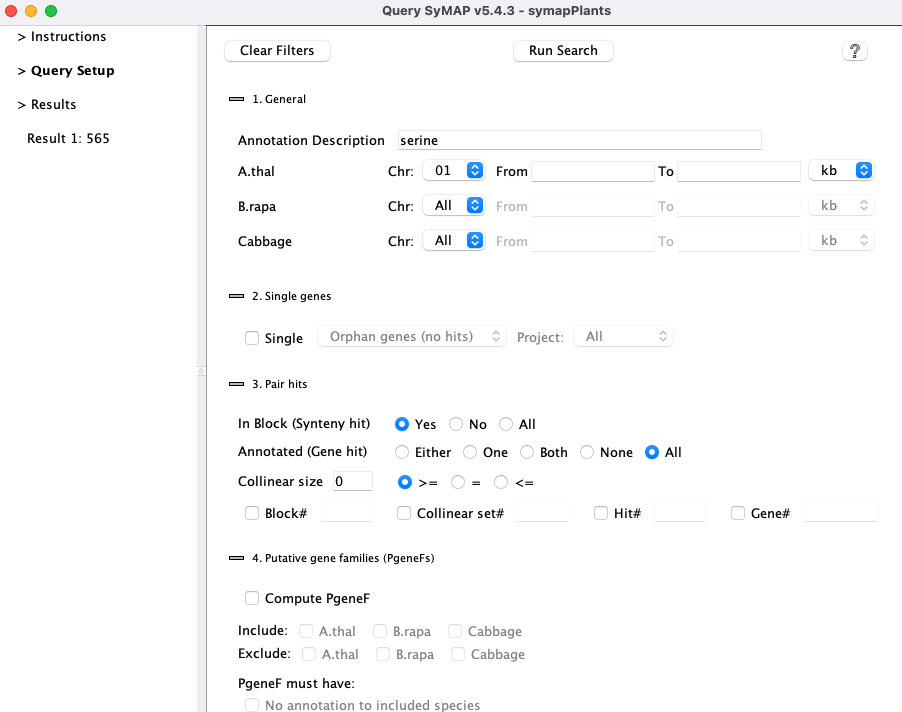
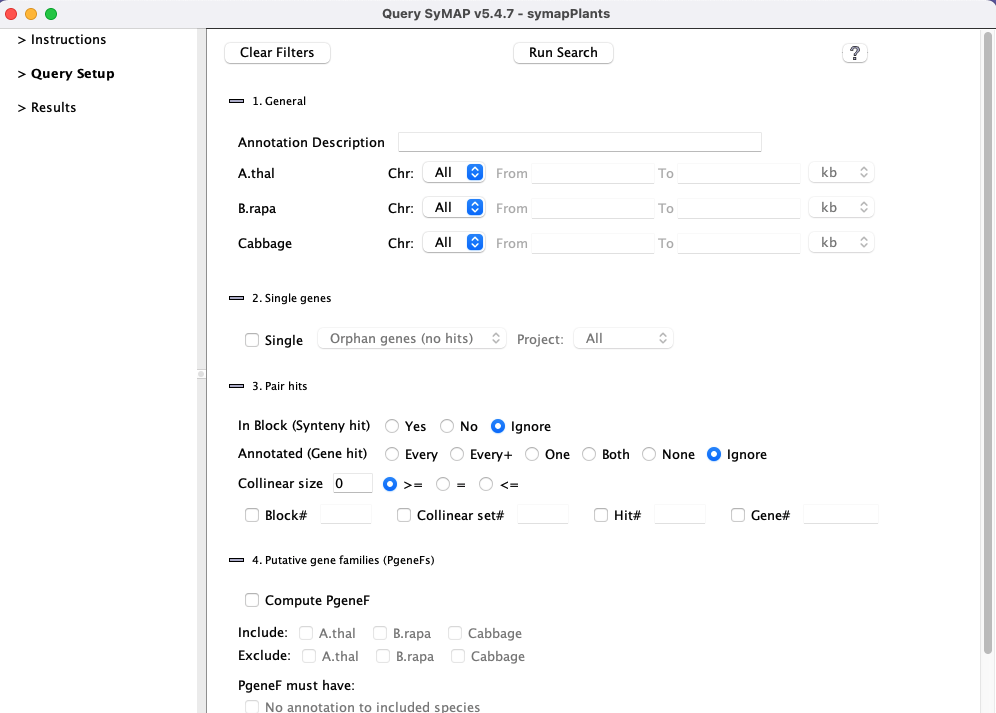
v4.5.7

diff --git a/docs/SystemGuide.html b/docs/SystemGuide.html
@@ -113,8 +113,10 @@ The following discusses building a SyMAP v5 database.
 <b>Supporting documentation</b>
 <ul>
 <li><a href="./SystemHelp.html" class="ext" target="_blank">Quick Guide and Parameters</a>
-<li><a href="MUMmer.html"  class="ext" target="_blank">MUMmer</a>
+<li><a href="MUMmer.html"  class="ext" target="_blank">Using MUMmer with SyMAP</a>
+<br>&nbsp;
 <li><a href="convert/index.html" class="ext" target="_blank">Convert NCBI and Ensembl</a>
+<li><a href="Demo.html" class="ext" target="_blank">Demo Results</a>
 <li><a href=TroubleShoot.html class="ext" target="_blank">Trouble Shooting</a>
 </ul>
 <p>For <b>Transcriptome Analysis and Comparative Transcriptomes</b>, see <a href="https://csoderlund.github.io/TCW/" class="ext" target="_blank">TCW</a>.
@@ -341,7 +343,7 @@ For MacOS, you may also need <a href="TroubleShoot.html#macos" class="ext" targe
 <table>
 <tr><td style="vertical-align: text-top;">
 The <ttb>Project Manager</ttb> window opens showing the three demo projects provided with the SyMAP tarball.
-Check <ttl>Demo-Seq</ttl> and <ttl>Demo-Seq2</ttl>.
+Check <tt>Demo-Seq</tt> and <tt>Demo-Seq2</tt>.
 <td><a href="img/demoLoad.png"><img src="img/demoLoad.png" alt="demoLoad" style="border: 1px solid black; width: 400px"></a>
 
 <tr><td style="colspan: 2; height: 40px;">&nbsp;
@@ -350,11 +352,11 @@ Check <ttl>Demo-Seq</ttl> and <ttl>Demo-Seq2</ttl>.
 
 A link <ttb>Load All Projects</ttb> will be displayed at the top of the right panel; select it to
 load the projects, which will take several minutes.
-<p>If loading the "Demo-Seq" takes
+<p>If loading the <tt>Demo-Seq</tt> takes
 <i>more than a few minutes</i>, you may need to adjust the MySQL parameters, see
 <a href="TroubleShoot.html#msqslow" class="ext" target="_blank">TroubleShoot MySQL</a>.
 <p>When done, the Manager will look like the image shown on the right.
-In the <ttb>Available Syntenies</ttb> table, the cell for  "Demo_Seq2" and "Demo_Seq" will
+In the <ttb>Available Syntenies</ttb> table, the cell for  <tt>Demo_Seq2</tt> and <tt>Demo_Seq</tt> will
 automatically be selected.
 
 <p>Click the <ttb>Selected Pair</ttb> button to start the <ttl>Alignment&amp;Synteny</ttl>.
@@ -400,12 +402,12 @@ gives a summary similar to <a href="img/demoSumAlgo2.png" class="ext" target="_b
 
 <table>
 	<tr><td style="vertical-align: text-top;">
-Load the Demo-Draft project, following
+Load the <tt>Demo-Draft</tt> project, following
 the same steps used to load the previous two projects.
 
-<p>Under the Demo-Draft listing, you will see
+<p>Under the <tt>Demo-Draft</tt> listing, you will see
 the parameter "Order against: demo_seq2". With this setting,
-the Demo-Draft contigs will be ordered using synteny to Demo-Seq2.
+the <tt>Demo-Draft</tt> contigs will be ordered using synteny to <tt>Demo-Seq2</tt>.
 		<td>
 <a href="img/demoDraft1.png"><img src="img/demoDraft1.png" alt="demoDraft1" style="border: 1px solid black; width: 400px"></a>
 	<tr><td style="colspan: 2; height: 40px;">&nbsp;
@@ -431,7 +433,7 @@ whether they should be flipped to a file called <tt>/data/seq/Demo_seq2/ordering
 It creates sequence files from the ordered contigs that are flipped when appropriate,
 which are put into a new project
 with the suffix "<tt>_ordered</tt>", as shown in the image below. The chromosome names correspond
-to the order-against project (e.g. Demo_seq2), and the third chromosome is 'chr0'
+to the order-against project (e.g. <tt>Demo_seq2</tt>), and the third chromosome is 'chr0'
 which contains all draft sequences that were not placed.
 <p>
 
@@ -440,7 +442,7 @@ which contains all draft sequences that were not placed.
 As shown in the image on the left, a new project has been added. Click <tt>Demo_Draft-ordered</tt> and
 load it.
 Running the <ttl>Alignment&amp;Synteny</ttl>
-between the <tt>_ordered</tt> project and Demo_seq2 will provide a more coherent display
+between the <tt>_ordered</tt> project and <tt>Demo_seq2</tt> will provide a more coherent display
 (see the second dot plot for <a href="Demo.html#draft" class="ext" target="_blank">Demo-draft</a>).
 Using the project <a href="SystemHelp.html#projParams" class="ext" target="_blank">Parameters</a> window,
 the <tt>Demo_Draft-ordered</tt> name can be shortened.
@@ -451,7 +453,7 @@ the <tt>Demo_Draft-ordered</tt> name can be shortened.
 <a id="demoself"></a>
 <h3>Self alignment</h3>
 
-The section on <a href="#self">Self alignments</a> discusses the select alignment of the Demo_Seq project.
+The section on <a href="#self">Self alignments</a> discusses the select alignment of the <tt>Demo_Seq</tt> project.
 
 <br>
 <!---------------------------------------------------------->
@@ -722,13 +724,12 @@ project and the new <tt>_ordered</tt> project.
 The original draft directory will have a new file called <tt>ordered.csv</tt> that will contain
 the merged contigs and what chromosome number they are mapped to.
 
-<p><u>If you are not ordering the draft sequence</u>,
-and if the draft sequence is in too many sequence pieces,
-then (1) it takes a long time for the MUMmer comparisons, (2)
+<p><i>If the draft sequence is in too many sequence pieces</i>,
+(1) it takes a long time for the MUMmer comparisons, (2)
 the display is very cluttered, and
 (3) the blocks display does not work right. Limit the number of sequence pieces
 by setting <tt>Minimum length</tt> in the project's <a href="#params2">Parameter</a> window to only load the largest 150 sequences;
-there is a script called <tt>scripts/lenFasta.pl</tt> which
+there is a script called <ttx>scripts/lenFasta.pl</ttx> which
 will print out all the lengths; set the <tt>Minimum length</tt> to the 150th length. However, even 150 are a lot of blocks to view
 so you might want to start with the largest 50, merge them, then repeat.
 
@@ -946,6 +947,7 @@ see if there are any <tt>/scripts</tt> or <tt>/ext</tt> changes that need to als
 <p>The following table shows what versions require action by the user.
 <table class=ty>
 <tr><td><b>Release</b><td><b>Changed files</b><sup>1</sup><td><b>Action by User</b>
+<tr><td>v5.4.6 & 5.4.7 <td>Only the <tt>symap.jar</tt><td><ttl>Alignment&Synteny</ttl><sup>2</sup> if using <ttx>Cluster Hit Algo 2</ttx>
 <tr><td>v5.4.1 <td>Only the <tt>symap.jar</tt><td>Execute <tt>./symap -y</tt>
 <tr><td>v5.4.0 <td>Only the <tt>symap.jar</tt><td><ttl>Alignment&Synteny</ttl><sup>2</sup>
 <tr><td>v5.2.0 <td><tt>symap</tt>, <tt>viewSymap</tt>, <tt>scripts/ConvertNCBI.*</tt><td><ttl>Alignment&Synteny</ttl><sup>2</sup>

diff --git a/docs/Demo.html b/docs/Demo.html
@@ -8,6 +8,7 @@
 	a:link {color:#6666CC;text-decoration: none; background-color: transparent;}
 	a:visited {color:#6666CC;text-decoration: none; background-color: transparent;}
 	a:active {color:#6666CC;text-decoration: none; background-color: transparent;}
+	ttx  {font-family: 'Helvetica', monospace; font-size: 14px; font-weight: 500; color: DarkSlateGrey;}
 	ttl  {font-family: 'Lucida Console', monospace; font-size: 14px; font-weight: 700; color: DarkSlateGrey;}
 	ttb  {font-family: 'Lucida Console', monospace; font-size: 14px; font-weight: 700; color: Black;}
     a.white {font-family:verdana; font-size:12px; color:white; text-decoration: underline;}
@@ -72,7 +73,7 @@ The demo was created from real data &gt;15 years ago, and is VERY obsolete - it 
 <tr><td>&nbsp;<td><small>Click an image to view a closeup.</small>
 <tr>
 	<td style="vertical-align: text-top;">
-	This document shows the different views for the Demo-Seq to Demo-Seq2 alignment.
+	This document shows the different views for the <tt>Demo-Seq</tt> to <tt>Demo-Seq2</tt> alignment.
 When synteny has been computed for the demo, the table will have a checkbox, signifying that
 the synteny is available for viewing. Click the cell
 again which will enable the viewing buttons, e.g <ttb>Dot Plot</ttb>.
@@ -102,7 +103,7 @@ The top left chromosome icon
 will have its number highlighed in a red box; this indicates it is the default reference chromosome.
 
 <p>
-Click on the icon body for Demo-Seq2 1 and 3 (i.e. chr1 and chr3) to see the Circos-style<sup>3</sup> view
+Click on the icon body for <tt>Demo-Seq2</tt> 1 and 3 (i.e. chr1 and chr3) to see the Circos-style<sup>3</sup> view
 shown on the right.
 The ribbons represent synteny blocks.
 	</td>
@@ -131,7 +132,7 @@ The exons for individual genes can be seen
 in the center of each sequence track. The length of the hit is shown on the inner boundary
 of the each chromosome segment.
 <p>
-There is a sequence filter for <ttl>Show Annotations</ttl>. This will show the annotation as shown
+There is a sequence filter for <tt>Show Annotations</tt>. This will show the annotation as shown
 on the right, but it must be zoomed in close enough. Alternatively, as long as the view is zoomed enough to see
 the individual exons, right-click on a gene for a popup of the annotation.
 </td>
@@ -144,7 +145,7 @@ the individual exons, right-click on a gene for a popup of the annotation.
 <td style="vertical-align: text-top;">
 Returning to the Manager, click the <ttb>Queries</ttb> button. This brings up
 the query window in Overview mode. Click the <ttb>Query Setup</ttb> option
-on the left-hand side and you will see the Query Setup window:
+on the left-hand side and you will see the corresponding window:
 <td>
 <a href="img/demoQuery.png"><img src="img/demoQuery.png" alt="demoQuery" style="border: 1px solid black; width: 400px"></a>
 
@@ -164,7 +165,7 @@ Using the query setting from above results in this table, where columns can be c
 <h3>Self-synteny of Demo-Seq</h3>
 <table>
 <tr> <td style="vertical-align: text-top;">
-Demo-Seq has been run against itself, resulting in the Dot Plot shown on the right.
+<tt>Demo-Seq</tt> has been run against itself, resulting in the <ttb>Dot Plot</ttb> shown on the right.
 There are a few off-diagonal blocks, which may indicate repetitive-ness (but these blocks are probably
 too small to be meaningful).
 </td>
@@ -178,7 +179,7 @@ too small to be meaningful).
 <h3>Demo-Draft to Demo-Seq2</h3>
 <table>
 <tr> <td style="vertical-align: text-top;">
-The Demo-draft was run against the Demo-Seq2 with its "order_against" parameter set to Demo_Seq2.
+The <tt>Demo-draft</tt> was run against the <tt>Demo-Seq2</tt> with its <ttx>order_against</ttx> parameter set to <tt>Demo_Seq2</tt>.
 The resulting dot plot is shown on the right. Note that the 43 contigs
 are ordered, but still fragmented.
 	</td>
@@ -188,11 +189,11 @@ are ordered, but still fragmented.
 </tr>
 <tr><td>&nbsp;</td></tr>
 <tr> <td style="vertical-align: text-top;">
-When the ordering algorithm is run, it creates a new project called "Demo-Draft_ordered",
+When the ordering algorithm is run, it creates a new project called <tt>Demo-Draft_ordered</tt>,
 where the 43 contigs are written into three chromosomes; the first two correspond
-to chr1 and chr3 of Demo_Seq2, and chr0 contains the contigs that do not align.
-<p>The new project Demo-Draft_ordered
-was aligned with Demo_Seq2, resulting in the dot plot shown on the right.
+to chr1 and chr3 of <tt>Demo_Seq2</tt>, and chr0 contains the contigs that do not align.
+<p>The new project <tt>Demo-Draft_ordered</tt>
+was aligned with <tt>Demo_Seq2</tt>, resulting in the dot plot shown on the right.
 	</td>
 	<td>
 <a href="img/demoDraftOrd.png"><img src="img/demoDraftOrd.png" alt="demoDraftOrd" style="border: 1px solid black; width: 400px"></a>
@@ -201,9 +202,9 @@ was aligned with Demo_Seq2, resulting in the dot plot shown on the right.
 <tr><td>&nbsp;</td></tr>
 
 <tr> <td style="vertical-align: text-top;">
-The Demo_Draft was created from the Demo_Seq with sequence reversal and some other changes.
-In the snapshot on the right, the blocks of the Demo_Seq-to-Demo_Seq2 is shown next to
-the blocks of Demo_Draft_ordered-to-Demo_Seq2 is shown on the right.
+The <tt>Demo_Draft</tt> was created from the <tt>Demo_Seq</tt> with sequence reversal and some other changes.
+In the snapshot on the right, the blocks of the <tt>Demo_Seq</tt>-to-<tt>Demo_Seq2</tt> is shown next to
+the blocks of <tt>Demo_Draft_ordered</tt>-to-<tt>Demo_Seq2</tt> is shown on the right.
 <p>Note that they major blocks are the same, as they should be.
 	</td>
 	<td>

diff --git a/docs/Release.html b/docs/Release.html
@@ -74,9 +74,27 @@ If you are using SyMAP and want to update to a new version, see <a href="SystemG
 </table>
 
 <a id="v546"></a>
+<h3>Release: v5.4.7 (14-Nov-23)</h3>
+For existing databases: if using <ttx>Cluster Hit Algo 2</ttx>, rerun the <ttb>Synteny</ttb>.
+<ul>
+<li><ttl>Query</ttl>: A new <ttx>Every+</ttx> option for databases build with <ttx>Cluster Hit Algo 2</ttx> post-v546.
+It shows all genes with a hit aligned to it, even the overlapping ones.
+This also is used for the <ttx>Annotation</ttx> search.
+<li><ttl>Alignment&amp;Synteny</ttl>: Fixed a bug in the new <ttx>Cluster Hit</ttx> algorithm; the bug did not effect the visible
+results except to have a slight fractional difference in the <ttl>Summary</ttl> <ttx>GNwCH</ttx> statistics,
+and the <ttl>Query</ttl> <ttx>NumHits</ttx> column on a few genes. The new <ttx>Every+</ttx> option is
+disabled for pre-v5.6.7 database, as that shows this problem.
+<li>Developers
+<ul>
+<li><small>Removed deprecated for Java v20: "exec(String) in Runtime has been deprecated" and "URL(String) in URL has been deprecated".
+All export routines call Globals.getExport(). Set some gray buttons to white for linux.</small>
+</ul>
+</ul>
+
+<a id="v546"></a>
 <h3>Release: v5.4.6 (22-Oct-23)</h3>
 <p>For existing databases: There will be a small database update on the first viewing.
-For the new cluster hit algorithm, change the <a href="SystemHelp.html#clust">Cluster parameters</a> and rerun then synteny.
+For the new cluster hit algorithm, change the <a href="SystemHelp.html#clust">Cluster parameters</a> and rerun the <ttb>Synteny</ttb>.
 
 <ul>
 <li><ttl>Alignment &amp; Synteny</ttl>: A new <ttx>Cluster Hit</ttx> algorithm has been written to filter and cluster MUMmer hits;
@@ -182,7 +200,7 @@ Frame2D, FSized2d, ControlPanel to drawingpanel because used exclusively by 2d. 
 <h3>Release: v5.4.3 (12-July-23)</h3>
 There are numerous tiny changes, fixes, and two small new features.
 <p>For existing databases: (1) View the database with <tt>./symap</tt> and okay the database update.
-(2) Though it is not necessary to re-run the <ttb>Synteny</ttb> algorithm, there is a small improvement
+(2) Though it is not necessary to rerun the <ttb>Synteny</ttb> algorithm, there is a small improvement
 for assigning hits to embedded genes.
 <ul>
 <li><ttb>Manager</ttb>
@@ -323,7 +341,7 @@ This removed 4 java files and replaced one.</small>
 <a id="v540"></a>
 <h3>Release: v5.4.0 (6-Apr-23)</h3>
 This release focuses on improving the detection of gene homology in the <ttb>Synteny</ttb> computation.
-<br>For existing databases, re-run <ttl>Alignment&Synteny</ttl> using existing MUMmer files.
+<br>For existing databases, rerun <ttl>Alignment&Synteny</ttl> using existing MUMmer files.
 <ul>
 <li><ttb>Synteny</ttb>:
 <ul>
@@ -614,7 +632,7 @@ Changed 2 Observers to PropertyChangeEvent. Reduce /props from 4 to 1 file.
 <a id=v520></a>
 <h3>Release: v5.2.0 (20-Nov-22)</h3>
 For existing databases, see <a href="SystemGuide.html#update" class="ext" target="_blank">Update</a>; the synteny
-algorithm needs to be re-run to get the collinear changes.
+algorithm needs to be rerun to get the collinear changes.
 <p>This release is concentrated on improving the algorithm and display of <u>collinear sets</u>;
 see <a href="./Collinear.html">details</a>.
 There is new viewing support for Collinear sets: see <a href="./UserGuide.html#hitfilter">2D Hit Filter</a>
@@ -630,7 +648,7 @@ get these new scripts!!
 <li><u>Collinear sets</u>:
 <ul>
 <li>The collinear sets algorithm has been greatly improved for more accurate results.
-The <tt>Alignment&Synteny</tt> needs to be re-run to compute the updated sets.
+The <tt>Alignment&Synteny</tt> needs to be rerun to compute the updated sets.
 <li>Each collinear set has a unique number for the chromosome pair.
 </ul>
 <li>The <ttl>Hit#</ttl> used in Queries and the 2D display was the index into the database and could get very large.
@@ -702,7 +720,7 @@ For existing databases, see <a href="SystemGuide.html#update" class="ext" target
 <p>Release v5.1.7 to v5.1.9 greatly improved the <u>Gene# assignment algorithm</u> and the <u>2D gene placement</u>.
 <p>Added -z option: To execute the latest Gene# assignment algorithm, execute <tt>./symap -z</tt>,
 then select <ttl>Reload Annotation</ttl>; the synteny algorithm does NOT need
-to be re-run.
+to be rerun.
 
 <h4>(25-Oct-22)</h4>
 This release has some interface improvements to SyMAP Query and the 2D gene placement algorithm was improved.

diff --git a/docs/SystemHelp.html b/docs/SystemHelp.html
@@ -589,12 +589,12 @@ It is very good at reducing piles of hits (see below). It has been used on 100's
 <br><u>Parameters</u> It does not need parameter adjustment. However, this gives no control over what hits are filtered.
 
 <p><ttl>Algorithm 2 (gene-centric)</ttl>:
-<br><u>Pros</u> This is a new algorithm that has explicit knowledge of gene-pairs and their exon-intron structure, and shows all gene pairs with
+<br><u>Pros</u> This is a new algorithm that has explicit knowledge of gene pairs and their exon-intron structure, and shows all gene pairs with
 hits unless filtered by the parameters.
 <br><u>Cons</u> It does not perform self-synteny or take NUCmer files as input.
 It does not work when a given chromosome is split over multiple MUMmer files (this will not happen when SyMAP generates the MUMmer files).
 <br><u>Parameters</u> The parameters generally will need adjusting. However, this gives more control over what gene pairs
-are shown and can surpress the minor intergenic hits. See <u>Hints</u> below the parameter explanation.
+are shown and can surpress the minor intergenic hits. See <a href=#hint>Hints</a> below the parameter explanation.
 
 <p><ttl>Algorithm 1</ttl> is the default for now; this is because <ttl>Algorithm 2</ttl> generally requires some
 experimenting with the parameters whereas <ttl>Algorithm 1</ttl> does not.
@@ -627,16 +627,18 @@ experimenting with the parameters whereas <ttl>Algorithm 1</ttl> does not.
 	<td>&nbsp;&nbsp;<ttl>Keep piles</ttl>
 	<td><ttl>EE</ttl> (exon-exon), <ttl>EI</ttl> (exon-intron), <ttl>En</ttl> (exon-intergenic), <ttl>II</ttl> (intron-intron),
 	<ttl>In</ttl> (intron-intergenic).
-	<br>This ONLY applies when there is a pile of overlapping hits (see below); it tells the algorithm what cluster hits to retain
-	regardless if its in a pile.
+	<br>This ONLY applies when there is a pile of overlapping hits (see below);
+	it tells the algorithm what cluster hits to retain
+	if they are in a pile.
 	<br>Intergenic-intergenic pile hits are automatically filtered down to one or two.
 	<td><ttl>EE</ttl>
 </table>
 <small>
 EQ 1: hit-length*identity, where hit-length is the maximum
-length if the query and target length reported by MUMmer, and identity is the fraction of the percent identity reported by MUMmer.
+length of the query and target length reported by MUMmer, and identity is the fraction of the percent identity reported by MUMmer.
 For clustered hits, EQ 1 is applied to the summed lengths and identity.
 </small>
+<a id="hint"></a>
 <p><u>Hint for Algorithm 1</u>: Increasing the <ttl>Top N</ttl> parameter can cause too many hits and reduce synteny.
 Decreasing it can remove more gene-pair hits.
 Hence, try <ttl>Algorithm 2</ttl> if you want more gene pairs.
@@ -644,8 +646,10 @@ Hence, try <ttl>Algorithm 2</ttl> if you want more gene pairs.
 <p><u>Hint for Algorithm 2</u>: On the output to the terminal, if any chromosome pair shows over 10,000 hits, the
 parameters probably need to be made more stringent; too many hits (and piles) confuses the synteny algorithm, which results
 in synteny blocks not being found; it also results in very long execution time.
-For highly similar genomes, it is <i>necessary</i> to increase the <ttl>Intergenic</ttl> parameter, e.g. &gt;1000.
-
+For highly similar genomes, it is <i>necessary</i> to increase the <ttx>Intergenic</ttx> parameter, e.g. &gt;1000;
+you may also need to increase the others parameters and uncheck <ttx>EE</ttx> to reduce hits. For distant genomes, decrease the parameters.
+<i>Suggestion</i>: for large
+genomes, experiment with the parameters on just one pair of the chromosomes.
 <table>
 <tr><td>
 <u>Piles of hits</u>: The below image shows a pile of hits on the left that link to repetitive genes on the right.

diff --git a/docs/Query.html b/docs/Query.html
@@ -122,7 +122,7 @@ When the query is complete, the <a href="#result">table of results</a> will be d
 aligned region between to two chromosomes from two projects.
 <p>3. A hit can align to multiple genes on either or both chromosome, however, <i><u>only ONE
 gene per project</u></i> is listed for each hit row. Hence, some genes will have hits, but they will
-not be shown on any query, e.g. the purple one in the image on the right.
+not be shown on any query except with the <ttx>Every+</ttx> option, e.g. the purple one in the image on the right.
 <p>4. Most filters can be used in conjunction with other
 filters; options will be disabled if they cannot be used with a selected filter.
 <td>
@@ -138,6 +138,7 @@ filters; options will be disabled if they cannot be used with a selected filter.
 for the substring.
 Hits will be returned that overlap a gene
 with the corresponding annotation; the gene can be on either side of the hit.
+If <a href="#genehit">Every+</a> is available, every hit for the gene will be shown.
 
 <p><ttl>Chromosome/location</ttl>
 <table class="tx">
@@ -200,16 +201,28 @@ block will be returned. All hits will have a value for the <ttx>Block</ttx> colu
 block will be returned. No hits will have a value for the <ttx>Block</ttx> column.
 </table>
 
+<a id="genehit"></a>
 <p><ttl>Annotated (Gene Hit)</ttl>
 <table class="tx">
-<tr><td style="vertical-align: text-top;">Either<td><td>&nbsp;<td>Only hits that are annotated for EITHER side of the
-pair will be shown. The <ttx>Gene#</ttx> columns will have a value for one or both sides of each hit.
-<tr><td style="vertical-align: text-top;">One<td><td>&nbsp;<td>Only hits that are annotated for ONE side of the
-pair will be shown. The <ttx>Gene#</ttx> columns will have a value for one side of each hit.
-<tr><td style="vertical-align: text-top;">Both<td><td>&nbsp;<td>Only hits that are annotated for BOTH sides of the
-pair will be shown. The <ttx>Gene#</ttx> columns will have values for both sides of the hit.
-<tr><td style="vertical-align: text-top;">None<td><td>&nbsp;<td>Only hits that are NOT annotated for either side of the
-pair will be shown. The <ttx>Gene#</ttx> columns will not have a value for either side of the hit.
+<tr><td style="vertical-align: text-top;">Every<td><td>&nbsp;
+<td>Only hits that align to a gene on one or both sides of the hit will be shown.
+The <ttx>Gene#</ttx> columns will list the best gene.
+
+<tr><td style="vertical-align: text-top;">Every+<td><td>&nbsp;
+<td>This is like the <ttx>Every</ttx> option, but a hit may be listed multiple times if it aligns
+to overlapping genes; in other words, ALL genes will be shown if they have any alignment.
+The <ttx>Gene#</ttx> for non-best hits will be suffixed with an "+" and the <ttx>Htype</ttx> is
+unknown.
+<br><i>This is only available with database that are build with <ttl>Algo 2</ttl>, post-v5.4.6.</i>
+
+<tr><td style="vertical-align: text-top;">One<td><td>&nbsp;
+<td>Only hits that align to a gene on ONE side of the will be shown.
+The <ttx>Gene#</ttx> columns will show the best gene for the side with the hit.
+<tr><td style="vertical-align: text-top;">Both<td><td>&nbsp;
+<td>Only hits that align to genes on BOTH sides will be shown.
+The <ttx>Gene#</ttx> columns will show the best gene for both sides of the hit.
+<tr><td style="vertical-align: text-top;">None<td><td>&nbsp;<td>Only hits that do NOT align to a gene
+on either side of the will be shown. The <ttx>Gene#</ttx> columns will not have a value for either side of the hit.
 </table>
 
 <p><ttl>Collinear size &gt;= N</ttl>

diff --git a/docs/index.html b/docs/index.html
@@ -66,7 +66,7 @@ detecting, displaying, and querying syntenic relationships between sequenced gen
 <br><img src="./img/bullet_blue_small.gif" alt="">&nbsp;It can align a draft genome to a fully sequenced genome
 (see <a href="./peach.html">Peach</a>), but not draft-to-draft.
 
-<p><img src="./img/bullet_blue_small.gif" alt="">&nbsp;Latest SyMAP release: v5.4.6 (22-Oct-2023), see <a href="./Release.html">Release Notes</a>.
+<p><img src="./img/bullet_blue_small.gif" alt="">&nbsp;Latest SyMAP release: v5.4.7 (14-Nov-2023), see <a href="./Release.html">Release Notes</a>.
 
 </div>
 <p>
